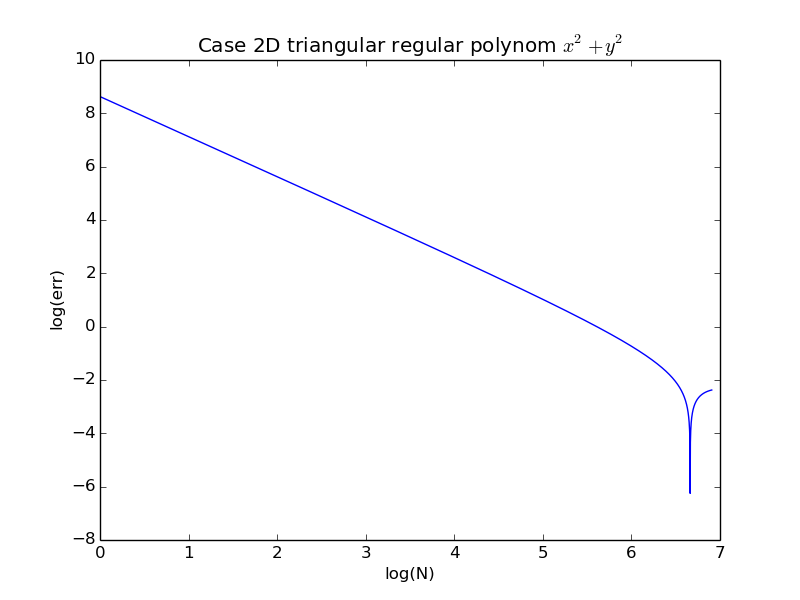
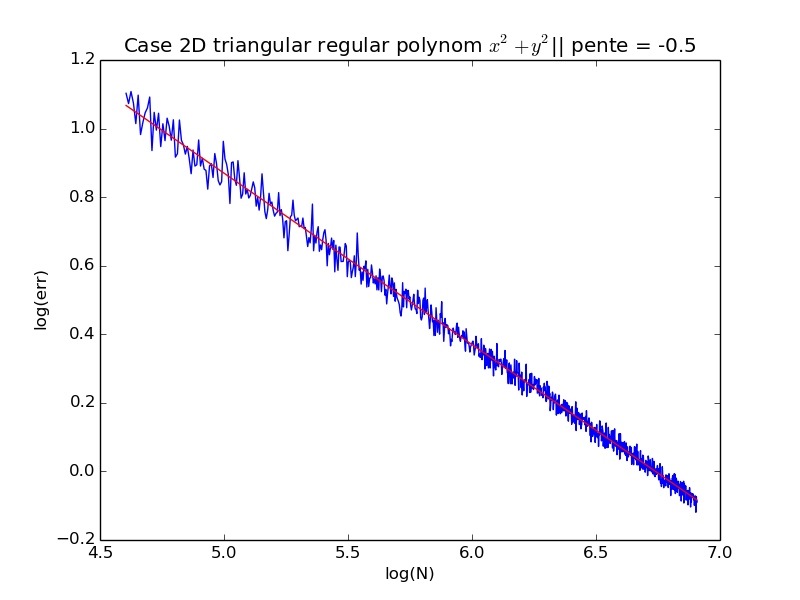
Triangular regular 2D montecarlo

diff --git a/triangular2D.py b/triangular2D.py
@@ -20,50 +20,47 @@ def monteCarlo_Regul_Tria(A,B,C,N):
 
 def monteCarlo_Tria(P0,P1,N):
     f_moy=sum(P0**2+P1**2)/N
-    f_moy2=sum((P0**2+P1**2)**2)/N
-    err=np.sqrt(np.abs((f_moy2-f_moy**2)/N))
-    
-    #err = np.sqrt(np.abs((1/(N-1)* sum((P[0]**2+P[1]**2) - f_moy )**2)/N))
-    
+    print "f_moy", f_moy
+    f_moy2=sum((P0**2+P1**2)**2)/2
+    #err=np.sqrt(np.abs((f_moy2-f_moy**2)/N))
+    Var=np.abs((1/N)*sum((P0**2+P1**2)**2)-f_moy**2)
+    #print "valeur",sum (P0**2+P1**2-f_moy)**2
+    err = np.sqrt(Var/N)*1.96
+    print "var", Var
     print "f_err", err   
     return err
 
 
 #figure()
-A=np.array([4,1])
-B=np.array([1,0])
-C=np.array([0,3])
-
+A=np.array([1,1])
+B=np.array([4,1])
+C=np.array([5,3])
 Point=monteCarlo_Regul_Tria(A,B,C,N)
 print "point:",Point
 print "point0",Point[0][0]
 print "point1",Point[1][0]
 plt.figure
+'''
 plt.scatter(A[0], A[1])
 plt.scatter(B[0], B[1])
 plt.scatter(C[0], C[1])
 plt.scatter(Point[0],Point[1])
 #plt.show()
-
+'''
+N=size(Point[0])
+print "N",N
+monteCarlo_Tria(Point[0],Point[1],N)
 
 err=np.array([])
 figure()
-for n in range(1,N):
+for n in range(100,N):
+    Point=monteCarlo_Regul_Tria(A,B,C,n)
     err=np.append(err,monteCarlo_Tria(Point[0],Point[1],n))
-plt.plot(log(range(1,N)), log(err))
-err2=log(err)
-x=log(range(1,N))
-print size(x)
-print size(err)
-z=x[1]
-y=err2[1]
-print z,y
-a=x[500]
-b=err2[500]
-print a,b
-pente=(b-y)/(a-z)
-print pente
-plt.title("Case 2D triangular regular polynom $x^{2}+y^{2}$")
+plt.plot(log(range(100,N)),log(err),"b")
+plt.plot(log(range(100,N)), -0.5*log(range(100,N))+3.37, "r")
+
+
+plt.title("Case 2D triangular regular polynom $x^{2}+y^{2}$|| pente = -0.5")
 plt.xlabel("log(N)")
 plt.ylabel("log(err)")
 plt.show()
